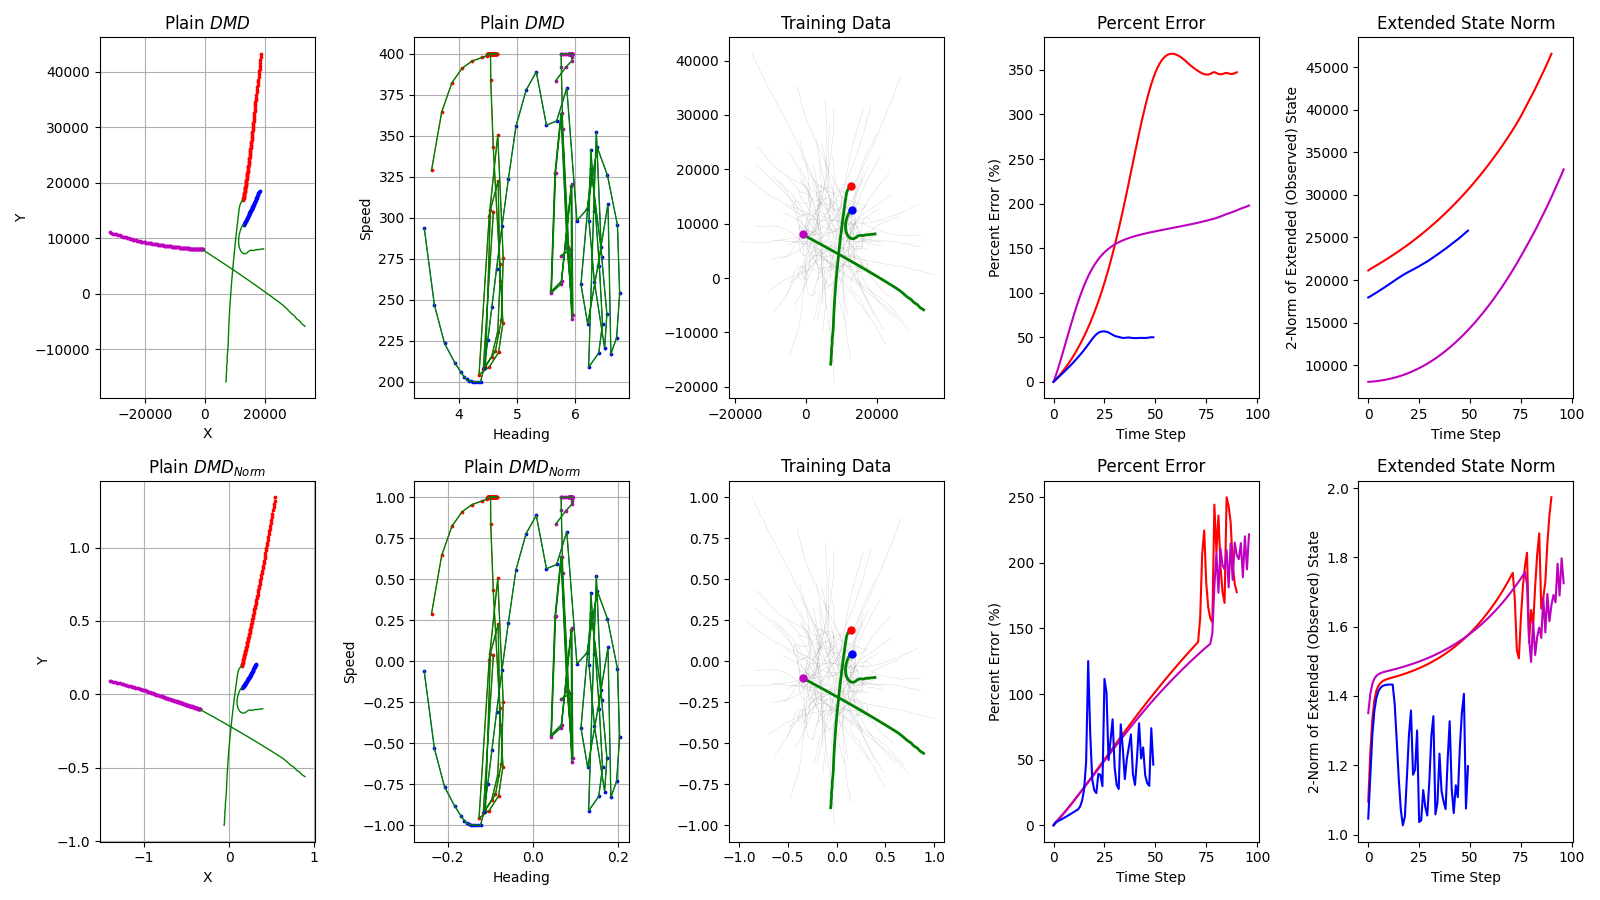
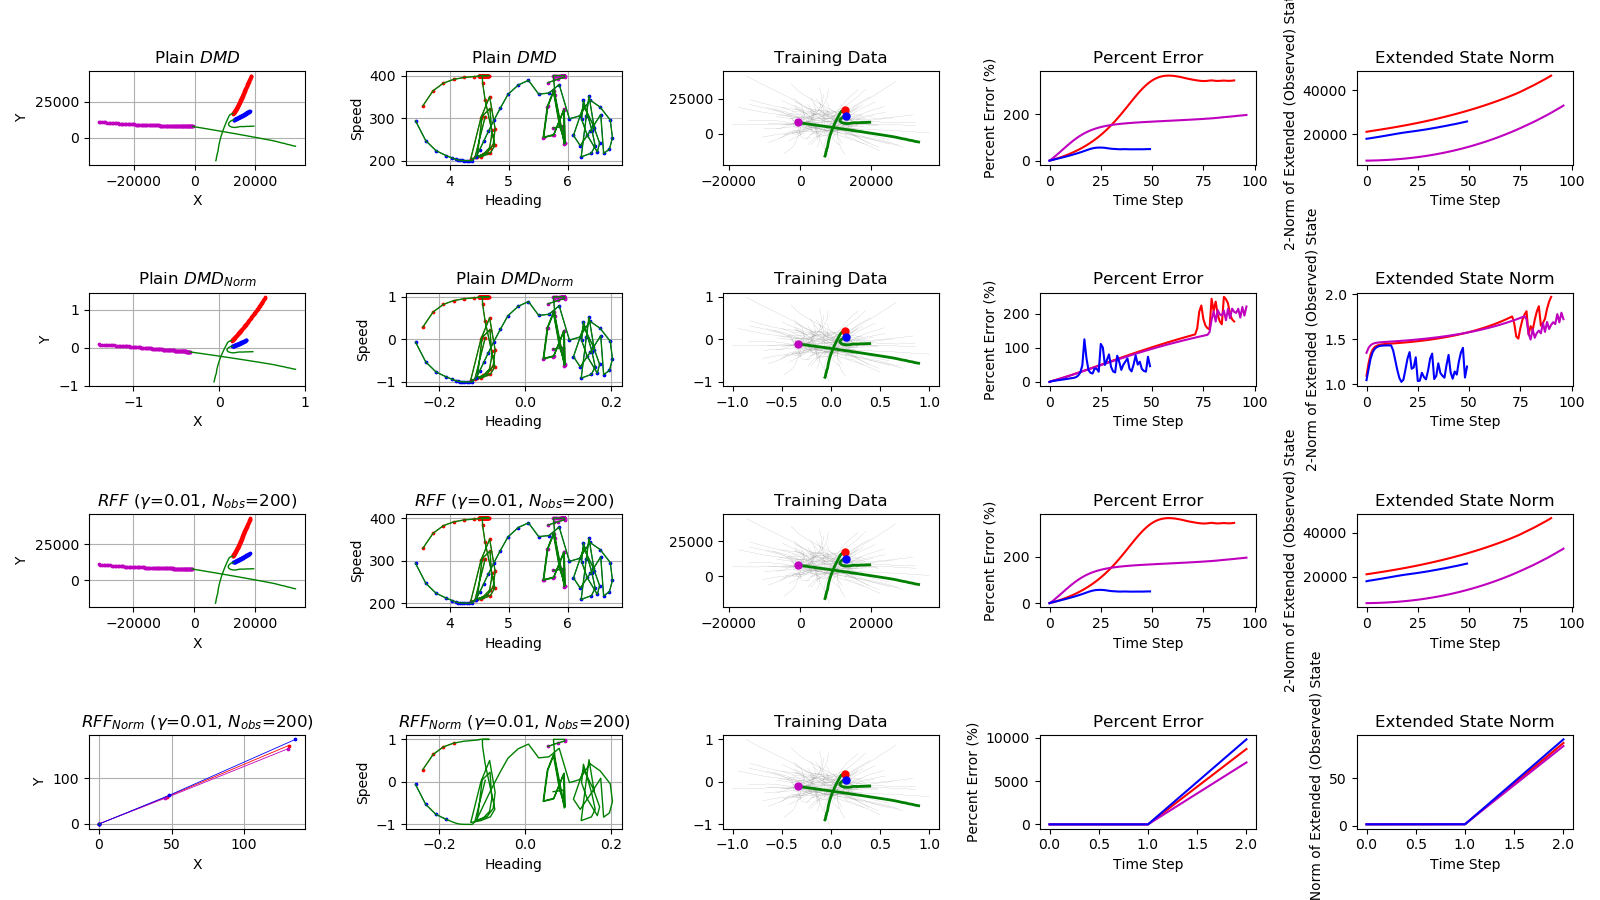
added normalize rff

diff --git a/autokoopman/koopman_util.py b/autokoopman/koopman_util.py
@@ -145,15 +145,17 @@ class KoopmanRFFNormalized(KoopmanRFF):
         self.centers_actions = None
         self.ranges_actions = None
 
-        print("!!! TODO: abstract away normalization somehow (multiple inheritance?) !!! DEBUG EXIT")
-        exit(1)
 
-    def preprocess_trajectory(self, states_np, actions_np):
+    def preprocess_trajectory(self, states_np, actions_np=None):
         '''preprocess a test trajectory, possibly modifying it (for example to normalize)'''
 
         assert self.centers_actions is not None, "Koopman model not trained, call train() first"
         
         normalized_states_np = normalize_single_list([states_np], self.centers_states, self.ranges_states)[0]
+
+        if actions_np is None:
+            return normalized_states_np
+
         normalized_actions_np = normalize_single_list([actions_np], self.centers_actions, self.ranges_actions)[0]
 
         return normalized_states_np, normalized_actions_np
